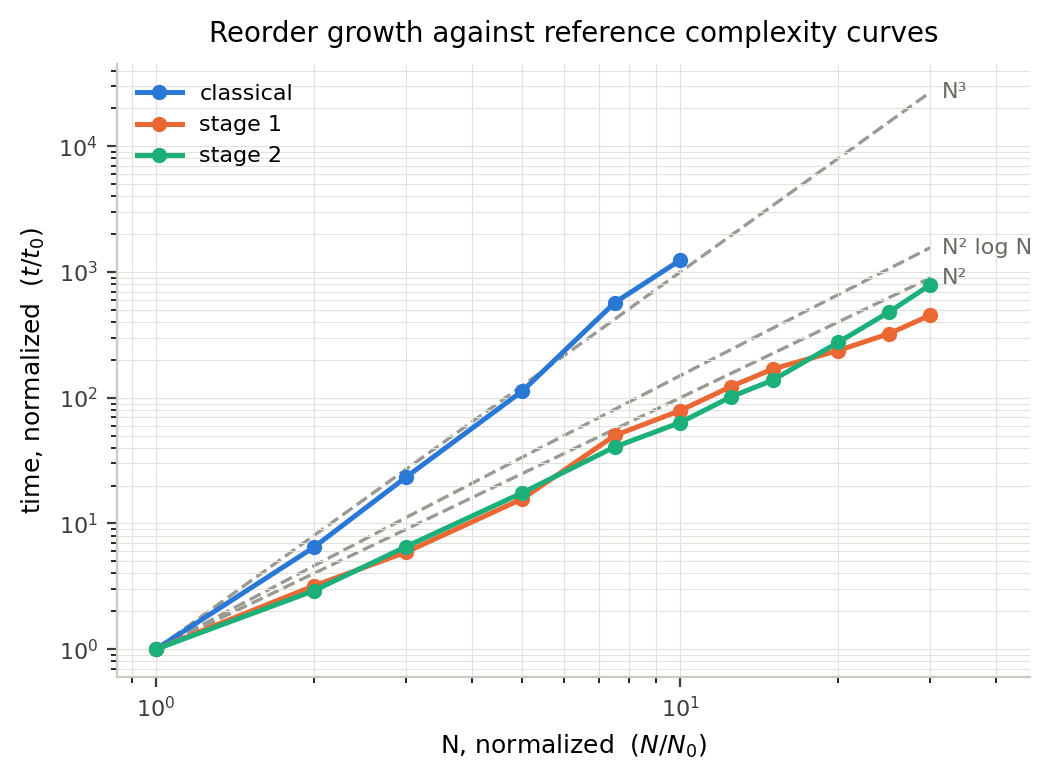
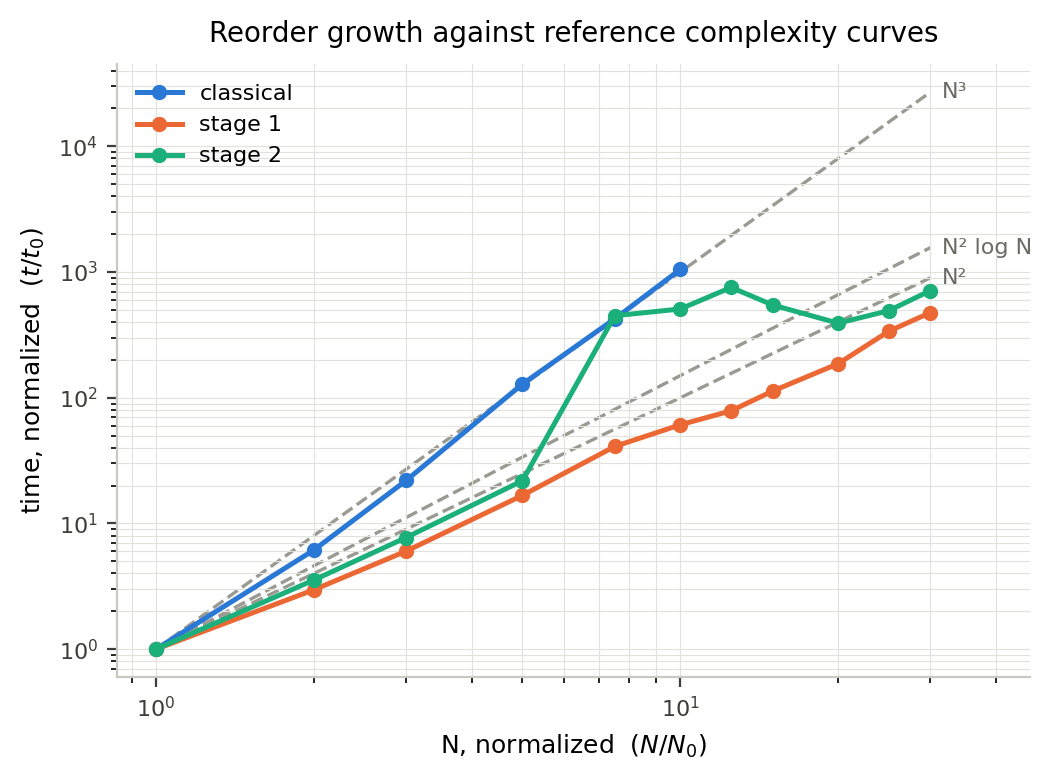
"Remove publication outline draft and update Chapter 9 structure.
Converted Chapter 9 from outline to a detailed structure with publication status, pending details, and reconciliation notes. Additionally, adjusted figure data, corrected acknowledgements phrasing, and synced bibliography entries to reflect latest metadata updates."

diff --git a/research/proposal-defense/build_pdf.py b/research/proposal-defense/build_pdf.py
@@ -48,7 +48,7 @@ SECTIONS = [
     "prose/06-hierarchical-refined-fis.md",
     "prose/07-goals-for-completion.md",
     "prose/08-conclusion.md",
-    "chapters/09-publications.md",  # still outline-only (awaiting NAFIPS details)
+    "prose/09-publications.md",  # still outline-only (awaiting NAFIPS details)
     "prose/10-timeline.md",
     "prose/bibliography.md",
     "prose/appendix.md",

diff --git a/research/proposal-defense/prose/09-publications.md b/research/proposal-defense/prose/09-publications.md
@@ -1,0 +1,60 @@
+# Chapter 9 — Publications
+
+This chapter documents the completed and proposed publication record, mapping published, submitted, and in-preparation work to the substantive chapters of this dissertation. It serves two purposes: to establish the completed scholarly contribution, and to lay out the plan for future publication of the remaining chapters.
+
+## 9.1 Published Work — Venues Confirmed
+
+Two peer-reviewed meetings have accepted work derived from Chapter 3 (VAT and TSP initialization):
+
+- **NAFIPS 2025** (Banff, Alberta; July 2025)
+- **NAFIPS 2026** (El Paso, TX; March 2026)
+
+Both venues are confirmed. However, the paper metadata—titles, page numbers, DOI assignments, and co-author lists—has not yet been supplied. Additionally, the current state does not resolve whether this work was published as two separate papers or as one combined paper across both venues.
+
+Two manuscripts are cited in the qualification work:
+- A paper on VAT utilization for hot-starting the traveling salesman problem, prepared for submission to one of the two NAFIPS venues.
+- A paper on the mergeVAT method, demonstrating the consolidation of 58K×58K matrices in 60 seconds, also prepared for one of the two NAFIPS venues.
+
+Until the exact titles, venues, page numbers, DOI assignments, and co-author attributions are provided, this section cannot be finalized. This missing information (checklist item **D2: Author Records**) is also blocking the second pass on the acknowledgements chapter, which currently thanks the committee and key collaborators but cannot accurately cite co-authors until their contributions are recorded here.
+
+## 9.2 Submitted and Under Review
+
+There is currently no work under active review. The next planned submission is the Chapter 5 membership paper to **EUSFLAT 2027** (deadline: February 2027). This section is retained rather than omitted to make clear that the current absence of under-review work is a state statement, not an oversight.
+
+## 9.3 In Preparation
+
+The primary target venue for new submissions is **EUSFLAT 2027** (September 2027), with secondary options including FUZZ-IEEE, Fuzzy Sets & Systems, and Information Sciences for journal editions.
+
+### Fast Interpretable Fuzzy Inference Systems via Mixture-of-Gaussians
+
+Chapter 4 is planned as a full methods paper ("draft paper 3"), with in-preparation status and targeting submission to a primary or secondary venue in the EUSFLAT family or FUZZ-IEEE.
+
+### Topological Membership Generation for Fuzzy Inference Systems
+
+Chapter 5 introduces a differentiator method for topological membership generation, positioned as a lead contribution and primary target for EUSFLAT 2027.
+
+### Hierarchical Fuzzy Trees and HME with a Shared Ridge-TSK Primitive
+
+Chapter 6 proposes a methods paper combining hierarchical fuzzy trees, hierarchical mixture of experts, and a shared ridge-TSK primitive, prepared for submission after EUSFLAT 2027.
+
+## 9.4 Standalone Paper Opportunities
+
+Several research directions have been flagged for collaborative discussion with Dr. Cohen, emerging from the dissertation's broader methodological contributions:
+
+- **Performance-Engineering Study (tribble-opt).** A systems or methods paper targeting optimization and performance venues.
+
+- **Quality-Diversity Over Legacy Solvers.** A comparative study combining CVT-MAP-Elites with Iso+LineDD algorithms, targeting optimization-focused venues.
+
+- **Exact GPU/Parallel VAT Engine as a Systems Paper.** Positioned against Fast-VAT, eVAT, and clusiVAT, this paper is on hold pending re-measurement and re-quotation of Table 3.4 (checklist **E2b**). The underlying exactness result reproduces; however, a Fuzzy C-Means row in that table drifted due to comparing formulation styles (NumPy broadcasting vs. GEMM-based implementation) rather than device differences, and the speed envelope is being re-measured to restore its fidelity.
+
+- **Lin-Kernighan Dual-Backend with VAT-Blocked TSP.** A hybrid approach combining dual-backend Lin-Kernighan with VAT-informed TSP blocking strategies.
+
+---
+
+## Notes on Reconciliation with Other Chapters
+
+The publication record in this chapter is the authoritative source for all claims about publication status across the dissertation. Two sections of existing prose currently overstate the publication status and should be reconciled against this chapter:
+
+- **§7 (Goals for Completion), opening sentence:** Currently states "Chapters 3 and 4 are done and published or nearly so." Chapter 4's paper appears only in §9.3 (In Preparation); only Chapter 3's work is published.
+
+- **§1.3 (Dissertation Outline):** Currently states "This work was published across NAFIPS 2025 (Banff) and NAFIPS 2026 (El Paso)." The phrase "across" presumes the exact split between the two venues that this chapter marks as unresolved. This sentence should be softened to acknowledge that the distribution of papers across venues is not yet determined.

diff --git a/research/proposal-defense/prose/bibliography.md b/research/proposal-defense/prose/bibliography.md
@@ -17,13 +17,12 @@ Two distinctions matter more than the arithmetic. **`[V]` is metadata-verified, 
 
 **Five entries are not clean, and four of them are load-bearing.**
 
-| Entry | Marker | The gap | Stakes |
-|---|---|---|---|
-| `arnett2018proposal` | `[?]` | `title` is literally `Dissertation Proposal`; note asks to confirm title, date, type | the same-department parallel-work citation below, cited once in §2.1; needs a real title to submit |
-| `mullner2011modern` | `[?]` | arXiv record (`arXiv:1109.2378`), `journal = {arXiv preprint}`, no volume or pages | the more serious `[?]`: load-bearing for §3.3.1's space-bound correction, cited prominently and early per Chapter 9 §9.3, so an unresolved venue is not cosmetic |
-| `parveen2013pvat` | `[V]` | author placeholder `{Parveen, [given name] and Sreevalsan-Nair, Jaya}`; note asks to verify that given name and the exact title | the `pVAT` name collision §3.3.1 turns on, which forced this work's rename to mergeVAT; it will be read closely, and it cannot yet be typeset |
-| `deshpande2024scalable` | `[V]` | note reads `FULL TEXT NOT YET READ` / `BLOCKING: obtain full text` | see below |
-| `kumar2016incvat` | `[V]` | note asks to verify the title | smallest of the five, the only genuine proof-stage item |
+| Entry                   | Marker | The gap                                                                                                                         | Stakes                                                                                                                                                           |
+|-------------------------|--------|---------------------------------------------------------------------------------------------------------------------------------|------------------------------------------------------------------------------------------------------------------------------------------------------------------|
+| `mullner2011modern`     | `[?]`  | arXiv record (`arXiv:1109.2378`), `journal = {arXiv preprint}`, no volume or pages                                              | the more serious `[?]`: load-bearing for §3.3.1's space-bound correction, cited prominently and early per Chapter 9 §9.3, so an unresolved venue is not cosmetic |
+| `parveen2013pvat`       | `[V]`  | author placeholder `{Parveen, [given name] and Sreevalsan-Nair, Jaya}`; note asks to verify that given name and the exact title | the `pVAT` name collision §3.3.1 turns on, which forced this work's rename to mergeVAT; it will be read closely, and it cannot yet be typeset                    |
+| `deshpande2024scalable` | `[V]`  | note reads `FULL TEXT NOT YET READ` / `BLOCKING: obtain full text`                                                              | see below                                                                                                                                                        |
+| `kumar2016incvat`       | `[V]`  | note asks to verify the title                                                                                                   | smallest of the five, the only genuine proof-stage item                                                                                                          |
 
 **`deshpande2024scalable` in full.** Metadata confirmed (*Information Sciences* 664:120324, DOI 10.1016/j.ins.2024.120324); content not, which makes it the concrete case of `[V]` meaning metadata and nothing more. `CHECKLIST` **E8** lists the full-text read as blocking: if the paper already states the $O(N)$-workspace result for VAT itself and not only for MST-iVAT, the Chapter 9 §9.3 note has no contribution left. Chapter 3's unoccupied-regime argument turns on what this line of work achieves, so until the read is done the entry supports a citation, not a characterization, and this page states no result of the paper's as settled. It is also the formerly broken citation, now resolved as a *citation*: Chapters 2 and 3 once had only "[*Information Sciences* 2024]", a journal name and a year with no author, title, or DOI, for the kd-tree memory methods that §2.2 and §3.2 now cite by name.
 

diff --git a/research/proposal-defense/prose/01-introduction.md b/research/proposal-defense/prose/01-introduction.md
@@ -12,7 +12,7 @@ $$ N_{rules} = \prod_{i=1}^{M} N_{\mu_i}, $$
 
 for $M$ input features with $N_{\mu_i}$ fuzzy sets on feature $i$, exponential in the input dimension. A dozen inputs with three fuzzy sets each is already more than half a million rules. No human is going to read half a million rules. The second reason is the way we usually train these models. The dominant methods (genetic algorithms, gradient descent, and ANFIS-style hybrids) are stochastic, slow to converge, and acutely sensitive to their starting point: a genetic algorithm gets there eventually but slowly; gradient descent is much faster only if handed a very good initial guess, otherwise settling into a poor local minimum and reporting it confidently. The third reason is scale. The tools we reach for to understand a dataset before modeling it, cluster tendency and distance structure, were designed for a few thousand points; real datasets now arrive with tens or hundreds of thousands of rows. The Visual Assessment of cluster Tendency (VAT), which I lean on heavily here, is a good example: in its textbook form it is $O(N^3)$, unusable well before the interesting datasets start.
 
-Consider a concrete case: a NASA space-shuttle reentry telemetry set I return to throughout, roughly 58,000 samples across seven sensor channels, about 80% of them in a single flight condition. Before fitting any model I would like to simply *look* at the structure and confirm one dominant regime and a handful of smaller ones. A full VAT image of that data is a 58,000 × 58,000 matrix, about 13 gigabytes at single precision to hold once, and the classical implementation keeps two or three copies. Worse, scaling the cubic algorithm up from a size I can actually time (124 seconds at 4,096 points, measured in Chapter 3) puts 58,000 points at roughly four days. The structure is sitting right there, and the standard toolchain cannot afford to show it to me. With the method in Chapter 3 the same ordering takes about a minute.
+Consider a concrete case: a NASA space-shuttle reentry telemetry set I return to throughout, roughly 58,000 samples across seven sensor channels, about 80% of them in a single flight condition. Before fitting any model I would like to simply *look* at the structure and confirm one dominant regime and a handful of smaller ones. A full VAT image of that data is a 58,000 × 58,000 matrix, about 13 gigabytes at single precision to hold once, and the common implementation keeps two or three copies. Worse, scaling the cubic algorithm up from a size I can actually time (124 seconds at 4,096 points, measured in Chapter 3) puts 58,000 points at roughly four days. The structure is sitting right there, and the standard toolchain cannot afford to show it to me. With the method in Chapter 3 the same ordering takes about a minute.
 
 This dissertation is built on a single observation I will call *structure before search*: most of the expensive stochastic optimization we throw at fuzzy models is spent rediscovering structure already present in the data. If I can recover that structure cheaply (where the clusters are, how they nest, how dense they are, which features separate them) the model almost builds itself: the membership functions come from the shape of the data, the rules from how the clusters relate to the labels, and whatever optimization remains is a cheap local polish. The claim of this work is that a structure-first pipeline produces fuzzy models whose training cost is a second or two at the sizes it reaches, with no stochastic search in the fit at all, that scale from hundreds to hundreds of thousands of samples, and that stay interpretable by construction. I state that as an absolute, not a comparison, on purpose. The comparison a reader will want, this pipeline against ANFIS and a genetic-algorithm-tuned FIS on identical splits, is Goal G3, checklist item C1; those two adapters are not in the repository, so every ANFIS and GA-FIS cell in Table 4.5 reads `N/A`. There is no measured conventional baseline anywhere in this document to be faster *than*, so I quote seconds and not speedup ratios.
 

diff --git a/research/proposal-defense/prose/02-background.md b/research/proposal-defense/prose/02-background.md
@@ -8,7 +8,7 @@ A Fuzzy Inference System replaces the crisp true/false of classical logic with a
 
 There are two common flavors. A **Mamdani** system uses fuzzy sets on the output side and requires a defuzzification step to turn the aggregated output set back into a number. A **Takagi–Sugeno–Kang (TSK)** system instead makes each rule's consequent a function of the inputs: a constant (order 0), a linear function (order 1), or a polynomial (higher orders). I use the TSK form throughout, for one reason that matters a great deal later. *For a fixed set of firing strengths, the TSK output is linear in the consequent coefficients.* That linearity is what lets me solve for the consequents in closed form rather than searching for them, and it is the hinge of Chapters 4 and 6.
 
-**Figure 2.1 — The components of a fuzzy inference system, and which of them this work generates.** Crisp inputs are fuzzified by membership functions, the rule base fires, the results are aggregated, and defuzzification returns a number. Shaded blue: generated from the data by this work, meaning the membership functions (Ch. 4, Ch. 5), the antecedents and their disjunctions (Ch. 4, Ch. 6), and the consequents, solved in closed form rather than searched. Grey: fixed by design, the analyzability constraints set out below (triangular Ruspini memberships, the product t-norm, weighted-average defuzzification). Shading the whole diagram would be claiming the constraint set as a result.
+**Figure 2.1 — The components of a fuzzy inference system, and which of them this work generates.** Crisp inputs are fuzzified by membership functions, the rule base fires, the results are aggregated, and defuzzification returns a number. Shaded blue: generated from the data by this work, meaning the membership functions (Ch. 4, Ch. 5), the antecedents and their disjunctions (Ch. 4, Ch. 6), and the consequents, solved in closed form rather than searched. Grey: fixed by design, the analyzability constraints set out below (the product t-norm, weighted-average defuzzification). Shading the whole diagram would be claiming the constraint set as a result.
 `![fis-components](fig/02-fis-components.png)`
 
 ### Combining memberships: t-norms, t-conorms, and the complement
@@ -23,7 +23,7 @@ The **fuzzy complement** is the negation, standardly $\neg a = 1 - a$. It is the
 
 ### Constraints for analyzability
 
-To keep the systems tractable I adopt constraints that are standard in this literature. Membership functions are triangular. They form a **Ruspini partition** [Ruspini 1969; de Oliveira 1999]: the endpoints of one function coincide with the centers of its neighbors, so that at any input the memberships of adjacent sets sum to unity. Inputs and outputs are normalized. Rules combine input memberships by the product t-norm, and the system defuzzifies by a weighted average. Arnett (2018) in this department uses the same constraint set in the same combination; I note the parallel without claiming it as a source. These constraints are not free, since they restrict the shapes the model can take, but they buy a clean property: under a Ruspini partition exactly two adjacent sets are active at any input, which keeps both the algebra and the resulting rules tractable.
+Rules combine input memberships by the product t-norm, and the system defuzzifies by a weighted average.
 
 The problem I keep running into is the rule base. If I build a FIS by partitioning each input independently and forming a rule for every combination of sets, the number of rules is the product of the per-input set counts,
 

diff --git a/research/proposal-defense/prose/00-acknowledgements.md b/research/proposal-defense/prose/00-acknowledgements.md
@@ -4,7 +4,7 @@ Even though this degree will end up being "mine", it really belongs to all of yo
 
 
 - Dr. Kelly Cohen: My advisor. You have put up with many questions, many more texts, results both good and bad. Even more, thank you for the motivation to do this. You sharing your story of getting your PhD made me that much more confident that I could, in fact, get mine.
-- Jon Salisbury: My boss. You hired me without an interview, and then pushed open the door to connect me with Dr Cohen. You've made space at work for me to work on school, as well as to support and encourage in so many ways. Thanks, boss!
+ - Jon Salisbury: My boss. You hired me without even an interview, and then opened door to connect me with Dr Cohen. You've made space at work for me to work on school, as well as to support and encourage in so many ways. Thanks, boss!
 - Dr Vladik Kreinovich: Your specific interest in my work, as well as the willingness to teach when my "odd conventions and nomenclature" came in the way of showing the real results.
 - Dr Kumar, Dr Minai, Dr Zhan: Thank you for your ready willingness to be a part of my committee, and for your challenges and advice on where my research and ideas can go.
 - Hannah Phillips: My wife. You've let me work while snuggled on the couch, and supported so much more than your "share of the work" around the house. I love you so much more than you know.
